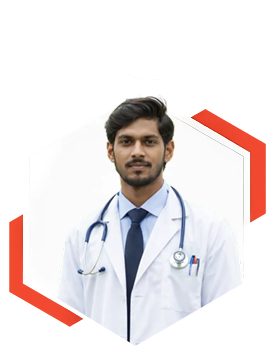
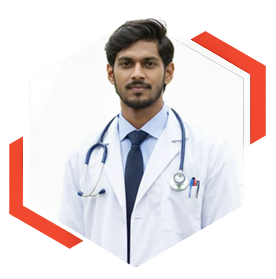
feat:

diff --git a/app/components/DoctorProfile.tsx b/app/components/DoctorProfile.tsx
@@ -7,7 +7,12 @@ import { motion } from 'framer-motion';
 export default function DoctorProfile() {
   return (
     <motion.div
-      className="w-full max-w-[698px] min-w-0 min-h-0 bg-white shadow-sm relative overflow-hidden flex flex-col lg:flex-row flex-shrink-0 box-border rounded-2xl border-2 border-[#F05137]/20"
+      className="w-full max-w-[698px] min-w-0 min-h-0 bg-white shadow-sm relative overflow-hidden flex flex-col lg:flex-row flex-shrink-0 box-border"
+      style={{
+        borderRadius: '23.7012px',
+        border: '2.37012px solid rgba(240, 81, 55, 0.22)',
+        minHeight: '355.52px',
+      }}
       whileHover={{ boxShadow: '0 8px 24px rgba(0,0,0,0.08)' }}
       transition={{ duration: 0.2 }}
     >
@@ -25,14 +30,15 @@ export default function DoctorProfile() {
       </motion.div>
 
       {/* Doctor image: full-width block on mobile, fixed width on desktop */}
-      <div className="relative flex-shrink-0 z-10 w-full lg:w-[298px] h-[200px] sm:h-[240px] lg:h-[312px] lg:min-h-[355px]">
+      <div className="relative flex-shrink-0 z-10 w-full lg:w-[298.32px] h-[200px] sm:h-[240px] lg:h-[311.67px] self-start pt-0 pb-0">
         <Image
           src="/doctors/dr-raghul.png"
           alt="Dr. Raghul"
           fill
-          className="object-contain object-[center_38%]"
+          className="object-contain object-top"
           priority
-          sizes="(max-width: 1024px) 100vw, 298px"
+          sizes="(max-width: 1024px) 100vw, 298.32px"
+          style={{ objectPosition: 'center top' }}
         />
       </div>
 
@@ -51,25 +57,43 @@ export default function DoctorProfile() {
             />
           </div>
         </div>
-        <div className="relative z-10 px-4 sm:px-6 lg:pl-10 lg:pr-4 py-5 sm:py-6 lg:py-8">
+        <div className="relative z-10 px-4 sm:px-6 lg:pl-4 lg:pr-4 py-5 sm:py-6 lg:py-8">
         <h1
-          className="text-black mb-1 text-xl sm:text-2xl lg:text-[28.7px] leading-tight lg:leading-[37px]"
-          style={{ fontFamily: "'Helonik', sans-serif", fontWeight: 500 }}
+          className="text-black mb-1 text-xl sm:text-2xl"
+          style={{ 
+            fontFamily: "'Helonik', sans-serif", 
+            fontWeight: 500,
+            fontSize: '28.7028px',
+            lineHeight: '37px'
+          }}
         >
           Dr. Raghull
         </h1>
         <p
-          className="text-black mb-3 text-sm sm:text-base leading-snug"
-          style={{ fontFamily: "'Helonik', sans-serif", fontWeight: 400 }}
+          className="text-black mb-3 text-sm sm:text-base"
+          style={{ 
+            fontFamily: "'Helonik', sans-serif", 
+            fontWeight: 400,
+            fontSize: '16px',
+            lineHeight: '23px'
+          }}
         >
           Senior Consultant – Obstetrics & Gynaecology
         </p>
 
-        <div className="w-full max-w-[359px] border-t border-gray-200 my-3 lg:mb-4" />
+        <div 
+          className="w-full max-w-[359.07px] my-3 lg:mb-4"
+          style={{ borderTop: '1.18506px solid #E2E2E2' }}
+        />
 
         <p
-          className="text-black mb-2 text-base sm:text-lg leading-snug"
-          style={{ fontFamily: "'Helonik', sans-serif", fontWeight: 500 }}
+          className="text-black mb-2"
+          style={{ 
+            fontFamily: "'Helonik', sans-serif", 
+            fontWeight: 500,
+            fontSize: '18.961px',
+            lineHeight: '15px'
+          }}
         >
           5+ Years experience
         </p>
@@ -80,24 +104,40 @@ export default function DoctorProfile() {
           MBBS, MS (O&G), F.MAS, F.ART, Diploma in Advanced Laparoscopy (Kiel, Germany), Diploma in Cosmetic Gynaecology
         </p>
 
-        <div className="flex flex-row items-center gap-2 mb-2">
+        <div className="flex flex-row items-center mb-2" style={{ gap: '9.48px' }}>
           <span className="text-[#F05137] flex-shrink-0 w-5 h-5 sm:w-6 sm:h-5" aria-hidden>
             <svg width="24" height="24" viewBox="0 0 24 24" fill="currentColor" className="w-full h-full">
               <path d="M20 2H4c-1.1 0-2 .9-2 2v18l4-4h14c1.1 0 2-.9 2-2V4c0-1.1-.9-2-2-2zm-2 12H6v-2h12v2zm0-3H6V9h12v2zm0-3H6V6h12v2z" />
             </svg>
           </span>
-          <span className="text-black text-xs sm:text-[15.6px] leading-tight" style={{ fontFamily: "'Helonik', sans-serif", fontWeight: 400 }}>
+          <span 
+            className="text-black" 
+            style={{ 
+              fontFamily: "'Helonik', sans-serif", 
+              fontWeight: 400,
+              fontSize: '15.6475px',
+              lineHeight: '23px'
+            }}
+          >
             English • Hindi • Tam
           </span>
         </div>
 
-        <div className="flex flex-row items-center gap-2">
+        <div className="flex flex-row items-center" style={{ gap: '10.67px' }}>
           <span className="text-[#F05137] flex-shrink-0 w-5 h-5 sm:w-6 sm:h-5" aria-hidden>
             <svg width="24" height="24" viewBox="0 0 24 24" fill="currentColor" className="w-full h-full">
               <path d="M19 3h-1V1h-2v2H8V1H6v2H5c-1.11 0-2 .9-2 2v14c0 1.1.89 2 2 2h14c1.1 0 2-.9 2-2V5c0-1.1-.9-2-2-2zm0 16H5V8h14v11z" />
             </svg>
           </span>
-          <span className="text-black text-xs sm:text-[15.6px] leading-tight" style={{ fontFamily: "'Helonik', sans-serif", fontWeight: 400 }}>
+          <span 
+            className="text-black" 
+            style={{ 
+              fontFamily: "'Helonik', sans-serif", 
+              fontWeight: 400,
+              fontSize: '15.6475px',
+              lineHeight: '23px'
+            }}
+          >
             16:00 - 18:00 • Mon - Sat
           </span>
         </div>

diff --git a/app/components/calendar/HospitalCalendar.tsx b/app/components/calendar/HospitalCalendar.tsx
@@ -48,7 +48,7 @@ export default function HospitalCalendar() {
       if (isTransition) {
         setIsTransitioning(true);
       } else {
-        setLoading(true);
+      setLoading(true);
       }
       const weekStart = currentWeek.toISOString().split('T')[0];
       const weekEnd = new Date(currentWeek);
@@ -57,10 +57,10 @@ export default function HospitalCalendar() {
 
       // Fetch doctors (only on initial load)
       if (!isTransition) {
-        const doctorsRes = await fetch('/api/doctors');
-        const doctorsData = await doctorsRes.json();
-        if (doctorsData.success) {
-          setDoctors(doctorsData.data);
+      const doctorsRes = await fetch('/api/doctors');
+      const doctorsData = await doctorsRes.json();
+      if (doctorsData.success) {
+        setDoctors(doctorsData.data);
         }
       }
 
@@ -78,7 +78,7 @@ export default function HospitalCalendar() {
       if (isTransition) {
         setIsTransitioning(false);
       } else {
-        setLoading(false);
+      setLoading(false);
       }
     }
   };
@@ -262,12 +262,12 @@ export default function HospitalCalendar() {
               exit={{ opacity: 0, x: slideDirection === 'left' ? -30 : 30 }}
               transition={{ duration: 0.35, ease: [0.4, 0, 0.2, 1] }}
             >
-              <CalendarGrid
-                startDate={currentWeek}
-                appointments={appointments}
-                doctors={doctors}
-                onSlotClick={handleSlotClick}
-              />
+          <CalendarGrid
+            startDate={currentWeek}
+            appointments={appointments}
+            doctors={doctors}
+            onSlotClick={handleSlotClick}
+          />
             </motion.div>
           </AnimatePresence>
         </div>

diff --git a/app/components/Header.tsx b/app/components/Header.tsx
@@ -89,7 +89,7 @@ export default function Header() {
   const closeMenu = () => setMenuOpen(false);
 
   return (
-    <header className="bg-white w-full min-w-0 overflow-x-hidden shadow-sm py-3 sm:py-4 px-4 sm:px-6 lg:px-[87px] relative lg:min-h-[92px]">
+    <header className="bg-white w-full min-w-0 overflow-x-hidden shadow-sm lg:shadow-none py-3 sm:py-4 px-4 sm:px-6 lg:px-[87px] relative lg:min-h-[92px]">
       <div className="max-w-[1920px] mx-auto flex items-center justify-between box-border relative">
         {/* Logo - on desktop aligned with doctor profile / main content start (centered 1120px block) */}
         <Link
